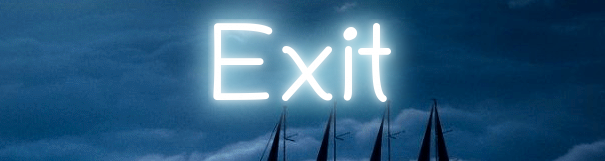
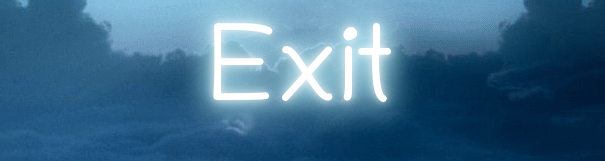
redisign

diff --git a/interface/main_menu_interface.py b/interface/main_menu_interface.py
@@ -135,7 +135,7 @@ class App(tk.Frame):
         self.rowconfigure(5, weight=1)
         self.rowconfigure(6, weight=1)
 
-        self.bg = tk.PhotoImage(file="BG.png")
+        self.bg = tk.PhotoImage(file="BG1.png")
         bg = tk.Label(master=self, image=self.bg)
         bg.grid(sticky="NEWS", column=0, row=0, columnspan = 3, rowspan = 7)
         self.widgets.append(bg)
@@ -147,10 +147,10 @@ class App(tk.Frame):
 
         self.exit = tk.PhotoImage(file="exit.png")
         exit_button = tk.Button(self, image=self.exit, command=self.quit, borderwidth=0, relief=tk.FLAT)
-        exit_button.grid(column=1, row=5)
+        exit_button.grid(column=1, row=4)
         self.widgets.append(exit_button)
 
-        self.gear = tk.PhotoImage(file="settings.png")
+        self.gear = tk.PhotoImage(file="../resources/images/settings.png")
         settings_button = tk.Button(master=self, image=self.gear, command=self.settings_menu, borderwidth=0, relief=tk.FLAT)
         settings_button.grid(sticky="W", column=0, row=6)
         self.widgets.append(settings_button)
